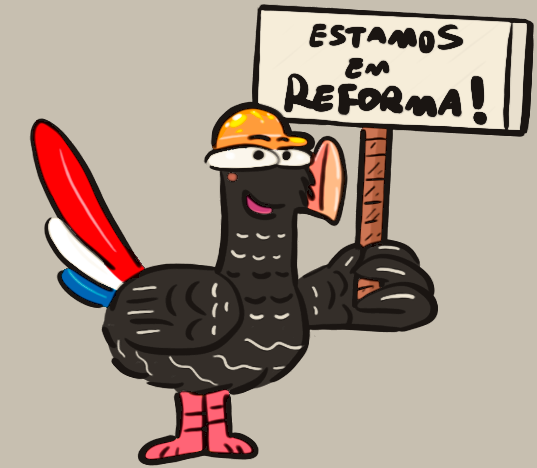
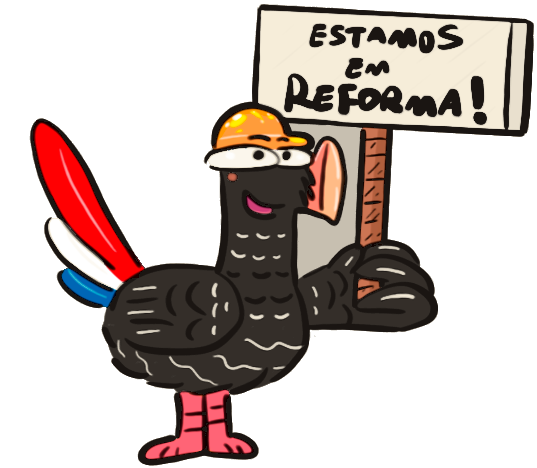
Aplica arte conceitual na equipe e atualiza EVOLUA! e curtas
Equipe: fotos e ovos extraídos dos slides conceituais. O texto de cada ovo
foi removido da imagem e passou a ser renderizado em HTML por cima, para
continuar traduzível — os quatro ovos têm rachaduras diferentes, então são
quatro arquivos. Avatares viram retângulo de cantos arredondados, com as
fotos reenquadradas para o maior retângulo inscrito na elipse original.

EVOLUA!: logo no lugar do título em texto, sinopse nova, gênero passa a
infinity running e o fundo do card vira o gradiente da apresentação,
replicado em CSS com três paradas.

Curtas: títulos reais (A Jornada Angatu, Depois do Dodô) e a seção passa a
citar documentários.

Placas da logo e cards da equipe usam o cinza do disco da marca, que dá 3.9:1
ao contorno branco do lockup contra 1.8:1 sobre a pedra.

Remove Discord, quatro fotos do estúdio e os textos pedidos. O placeholder
em-desenvolvimento.png fica com fundo transparente. Corrige traduções EN/ES
que tinham ficado para trás de edições feitas no português, e a menção ao
Discord na política de privacidade.

diff --git a/index.html b/index.html
@@ -73,8 +73,8 @@
     <div class="container hero-grid">
       <div class="hero-copy">
         <div class="eyebrow" style="--fg:#1A1512;--bg:#F4B12A;--sh:#E23A2E">★ <span data-en="From Alagoas to the world" data-es="Desde Alagoas para el mundo">De Alagoas para o mundo</span></div>
-        <h1 class="hero-title"><span data-en="We make games &amp; shorts" data-es="Hacemos juegos y cortos">Fazemos jogos e curtas</span> <span style="color:var(--gold)" data-en="with a Brazilian soul." data-es="con alma brasileña.">com alma brasileira.</span></h1>
-        <p class="hero-lede" data-en="Motion Mutum is an independent studio born in Alagoas, blending digital art, folklore and a lot of love for every single frame." data-es="Motion Mutum es un estudio independiente nacido en Alagoas, que mezcla arte digital, folclore y mucho cariño por cada cuadro.">A Motion Mutum é um estúdio independente que nasce em Alagoas, misturando arte digital, folclore e muito carinho por cada quadro.</p>
+        <h1 class="hero-title"><span data-en="One nest" data-es="Un nido">Um ninho</span> <span style="color:var(--gold)" data-en="and many ideas" data-es="y muchas ideas">e muitas Ideias</span></h1>
+        <p class="hero-lede" data-en="Motion Mutum is an indie games and animation studio born in Alagoas, blending digital art, culture and creativity." data-es="Motion Mutum es un estudio indie de juegos y animación nacido en Alagoas, que mezcla arte digital, cultura y creatividad.">O Motion Mutum é um estúdio indie de games e animação que nasceu em Alagoas, misturando arte digital, cultura e criatividade.</p>
         <div class="hero-ctas">
           <a class="btn btn--lg btn--fill" href="#anim" style="--sc:#E23A2E"><span class="btn-icon">▶</span><span data-en="Watch showreel" data-es="Ver showreel">Ver showreel</span></a>
           <a class="btn btn--lg btn--outline" href="#games" style="--sc:#2A3BC4"><span data-en="Meet EVOLUA!" data-es="Conoce EVOLUA!">Conheça EVOLUA!</span><span>→</span></a>
@@ -97,7 +97,6 @@
           <div class="eyebrow" style="--fg:#E23A2E">● <span data-en="IN DEVELOPMENT" data-es="EN DESARROLLO">EM DESENVOLVIMENTO</span></div>
           <h2 class="section-title" data-en="Our games" data-es="Nuestros juegos">Nossos jogos</h2>
         </div>
-        <p class="games-summary" data-en="Handcrafted digital-art worlds — one project at a time, made to last." data-es="Mundos en arte digital hechos a mano — un proyecto a la vez, hechos para durar.">Mundos em arte digital feitos à mão — um projeto de cada vez, feito para durar.</p>
       </div>
 
       <!-- feature card -->
@@ -107,16 +106,15 @@
         </div>
         <div class="feature-copy">
           <div class="tag-row">
-            <span class="tag" style="--bg:#F4B12A">ARTE DIGITAL</span>
-            <span class="tag" style="--bg:#E23A2E;--fg:#F6EDD9" data-en="RUNNING / PLATFORMER" data-es="RUNNING / PLATAFORMA">RUNNING / PLATAFORMA</span>
-            <span class="tag" style="--fg:#F6EDD9;--bd:#F6EDD9">PC / MOBILE</span>
+            <span class="tag" style="--bg:#F4B12A" data-en="DIGITAL ART" data-es="ARTE DIGITAL">ARTE DIGITAL</span>
+            <span class="tag" style="--bg:#E23A2E;--fg:#F6EDD9">INFINITY RUNNING</span>
+            <span class="tag" style="--bg:#2A3BC4;--fg:#F6EDD9">PC / MOBILE</span>
           </div>
-          <h3 class="evolua-title">EVOLUA!</h3>
-          <p class="evolua-lede" data-en="A running/platformer set in the Cretaceous. You play an ancestral bird — parent of all living birds — able to morph into other birds depending on the seed it eats, joined by a shape-shifting prehistoric mammal. Cross biomes, dodge beasts and obstacles, and find your way back to the nest." data-es="Un running/plataforma ambientado en el Cretácico. Controlas un ave ancestral — madre de todas las aves actuales — capaz de transformarse en otras aves según la semilla que come, junto a un pequeño mamífero prehistórico metamórfico. Atraviesa biomas, esquiva bestias y obstáculos, y vuelve al nido.">Um running/plataforma ambientado no Cretáceo. Você controla uma ave ancestral — mãe de todas as aves atuais — capaz de assumir a forma de outras aves conforme a semente que come, ao lado de um pequeno mamífero pré-histórico metamórfico. Atravesse biomas, escape de feras e obstáculos e volte ao ninho.</p>
-          <p class="evolua-sublede" data-en="A playful, educational take on evolution by natural selection — with creatures inspired by Brazilian species, prehistoric and modern." data-es="Una visión lúdica y educativa de la evolución por selección natural — con criaturas inspiradas en especies brasileñas, prehistóricas y actuales.">Uma visão lúdica e educativa da evolução por seleção natural — com criaturas inspiradas em espécies brasileiras, pré-históricas e atuais.</p>
+          <h3 class="evolua-title"><img src="assets/evolua-logo.png" width="1100" height="308" alt="EVOLUA!"></h3>
+          <p class="evolua-lede" data-en="An infinity runner set in the late Cretaceous, in which you control a bird ancestral to all birds alive today. It can take the shape of other birds depending on the seed it eats, crossing biomes and escaping dinosaurs, crocodiles and other beasts to return to its nest. The game is a playful, educational take on evolution by natural selection, with creatures inspired by Brazilian species, prehistoric and modern." data-es="Un infinity running ambientado al final del período Cretácico, en el que controlas un ave ancestral de todas las actuales. Es capaz de asumir la forma de otras aves según la semilla que come, a través de biomas, escapando de dinosaurios, cocodrilos y otras fieras, para volver a su nido. El juego es una visión lúdica y educativa de la evolución por selección natural, con criaturas inspiradas en especies brasileñas, prehistóricas y actuales.">Um infinity running ambientado no final do período Cretáceo. Em que você controla uma ave ancestral de todas as atuais. Ela é capaz de assumir a forma de outras aves conforme a semente que come, através de biomas, escapando de dinossauros, crocodilos e outras feras, para retornar ao seu ninho. O Jogo é uma visão lúdica e educativa da evolução por seleção natural com criaturas inspiradas em espécies brasileiras, pré-históricas e atuais.</p>
           <div class="evolua-ctas">
             <button class="btn btn--fill" id="wishlistBtn" data-on="0" style="--sc:#1A1512">★ <span data-wl data-en="Add to wishlist" data-es="Añadir a la lista de deseos">Adicionar à wishlist</span></button>
-            <a class="btn btn--outline" href="#anim" style="--sc:rgba(0,0,0,.35)"><span class="btn-icon">▶</span><span data-en="Watch trailer" data-es="Ver trailer">Ver trailer</span></a>
+            <a class="btn btn--blue" href="#anim" style="--sc:#1A1512"><span class="btn-icon">▶</span><span data-en="Watch trailer" data-es="Ver trailer">Ver trailer</span></a>
           </div>
         </div>
       </div>
@@ -147,7 +145,7 @@
   <section id="anim" class="section section-pad bg-cream-alt">
     <div class="container">
       <div style="text-align:center">
-        <div class="eyebrow" style="--fg:#2A3BC4">▶ <span data-en="ANIMATED SHORTS" data-es="CORTOS DE ANIMACIÓN">CURTAS DE ANIMAÇÃO</span></div>
+        <div class="eyebrow" style="--fg:#2A3BC4">▶ <span data-en="ANIMATED SHORTS &amp; DOCUMENTARIES" data-es="CORTOS DE ANIMACIÓN Y DOCUMENTALES">CURTAS DE ANIMAÇÃO E DOCUMENTÁRIOS</span></div>
         <h2 class="section-title" style="margin:18px auto 0;max-width:16em" data-en="Frame by frame, from Alagoas" data-es="Cuadro a cuadro, directo desde Alagoas">Quadro a quadro, direto de Alagoas</h2>
       </div>
 
@@ -159,7 +157,7 @@
       </div>
 
       <!-- shorts grid -->
-      <div class="shot-grid" data-carousel style="margin-top:26px">
+      <div class="shot-grid shot-grid--duo" data-carousel style="margin-top:26px">
         <div class="short-card">
           <div class="short-media">
             <div class="wip">
@@ -167,7 +165,7 @@
               <span class="wip-badge" data-en="IN DEVELOPMENT" data-es="EN DESARROLLO">EM DESENVOLVIMENTO</span>
             </div>
           </div>
-          <div class="short-body"><div class="short-title" data-en="The Curassow's Song" data-es="El Canto del Mutum">O Canto do Mutum</div><div class="short-status" style="--fg:#E23A2E" data-en="SHORT · COMING SOON" data-es="CORTO · PRÓXIMAMENTE">CURTA · EM BREVE</div></div>
+          <div class="short-body"><div class="short-title">A Jornada Angatu</div><div class="short-status" style="--fg:#E23A2E" data-en="ANIMATED SHORT · COMING SOON" data-es="CORTO ANIMADO · PRÓXIMAMENTE">CURTA ANIMADO · EM BREVE</div></div>
         </div>
         <div class="short-card">
           <div class="short-media">
@@ -176,16 +174,7 @@
               <span class="wip-badge" data-en="IN DEVELOPMENT" data-es="EN DESARROLLO">EM DESENVOLVIMENTO</span>
             </div>
           </div>
-          <div class="short-body"><div class="short-title" data-en="Backwater Tales" data-es="Cuentos del Sertão">Causos do Sertão</div><div class="short-status" style="--fg:#2A3BC4" data-en="SHORT · COMING SOON" data-es="CORTO · PRÓXIMAMENTE">CURTA · EM BREVE</div></div>
-        </div>
-        <div class="short-card">
-          <div class="short-media">
-            <div class="wip">
-              <img src="assets/em-desenvolvimento.png" alt="Mutum de capacete segurando uma placa: estamos em reforma">
-              <span class="wip-badge" data-en="IN DEVELOPMENT" data-es="EN DESARROLLO">EM DESENVOLVIMENTO</span>
-            </div>
-          </div>
-          <div class="short-body"><div class="short-title" data-en="Lantern Moon" data-es="Luna de Mamulengo">Lua de Mamulengo</div><div class="short-status short-status--outline" style="--fg:#F4B12A" data-en="SHORT · COMING SOON" data-es="CORTO · PRÓXIMAMENTE">CURTA · EM BREVE</div></div>
+          <div class="short-body"><div class="short-title">Depois do Dodô</div><div class="short-status" style="--fg:#2A3BC4" data-en="DOCUMENTARY SHORT · COMING SOON" data-es="CORTO DOCUMENTAL · PRÓXIMAMENTE">CURTA DOCUMENTAL · EM BREVE</div></div>
         </div>
       </div>
     </div>
@@ -197,22 +186,16 @@
       <div>
         <div class="eyebrow" style="--fg:#1A1512;--bg:#F4B12A;--bd:#F6EDD9;--sh:#E23A2E">★ <span data-en="THE STUDIO" data-es="EL ESTUDIO">O ESTÚDIO</span></div>
         <h2 class="section-title" style="color:var(--cream)" data-en="Why a curassow?" data-es="¿Por qué un mutum?">Por que um mutum?</h2>
-        <p class="studio-copy" style="margin-top:20px" data-en="The Alagoas Curassow is one of the rarest birds in the world — a symbol of resilience and of our home state. Its colors echo the Alagoas flag: red, white and blue." data-es="El mutum de Alagoas es una de las aves más raras del mundo — símbolo de resistencia y de nuestro estado natal. Sus colores recuerdan la bandera de Alagoas: rojo, blanco y azul.">O mutum-de-alagoas é uma das aves mais raras do mundo — símbolo de resistência e do nosso estado natal. Suas cores ecoam a bandeira de Alagoas: vermelho, branco e azul.</p>
-        <p class="studio-copy" data-en="We're a small, independent team making games and animation with regional roots and a whole lot of care. Slow, handmade, ours." data-es="Somos un equipo pequeño e independiente, haciendo juegos y animación con raíces regionales y mucho cuidado. Despacio, hecho a mano, nuestro.">Somos um time pequeno e independente, fazendo jogos e animação com raiz regional e muito cuidado. Devagar, feito à mão, nosso.</p>
-        <p class="studio-note" data-en="An initiative supported by the City of Coruripe and its Culture Secretariat — which hosts our space. In return we run talks, workshops and the Municipal Library Film Club." data-es="Una iniciativa con el apoyo del Ayuntamiento de Coruripe y su Secretaría de Cultura — que cede nuestro espacio. Como contrapartida, realizamos charlas, talleres y el Cineclub de la Biblioteca Municipal.">Iniciativa com apoio da Prefeitura de Coruripe e da Secretaria Municipal de Cultura — que cede nosso espaço. Como contrapartida, realizamos palestras, workshops e o Cineclube da Biblioteca Municipal.</p>
+        <p class="studio-copy" style="margin-top:20px" data-en="Our studio's name was inspired by the Alagoas Curassow, one of the rarest birds in the world and a symbol of our home state; we're an independent team focused on developing games and animation." data-es="El nombre de nuestro estudio se inspiró en el mutum de Alagoas, una de las aves más raras del mundo y símbolo de nuestro estado; somos un equipo independiente enfocado en el desarrollo de juegos y animaciones.">O nome do nosso estúdio foi inspirado pelo mutum-de-alagoas, uma das aves mais raras do mundo e símbolo do nosso estado, somos um time independente focado no desenvolvimento de jogos e animações.</p>
         <div class="studio-tags">
-          <div class="pill" style="--bd:#E23A2E" data-en="INDEPENDENT" data-es="INDEPENDIENTE">INDEPENDENTE</div>
-          <div class="pill" data-en="HANDMADE" data-es="HECHO A MANO">FEITO À MÃO</div>
-          <div class="pill" style="--bd:#2A3BC4" data-en="MADE IN ALAGOAS" data-es="DE ALAGOAS">DE ALAGOAS</div>
+          <div class="pill" style="--bd:#E23A2E" aria-hidden="true"></div>
+          <div class="pill" aria-hidden="true"></div>
+          <div class="pill" style="--bd:#2A3BC4" aria-hidden="true"></div>
         </div>
       </div>
       <div class="studio-photo carousel-track" data-carousel>
-        <img src="assets/studio-meeting-1.jpg" alt="Equipe da Motion Mutum reunida para uma palestra">
         <img src="assets/studio-meeting-2.jpg" alt="Equipe da Motion Mutum reunida trabalhando em notebooks">
-        <img src="assets/studio-meeting-3.jpg" alt="Equipe da Motion Mutum reunida trabalhando em notebooks">
-        <img src="assets/studio-meeting-4.jpg" alt="Equipe da Motion Mutum reunida trabalhando em notebooks">
         <img src="assets/studio-meeting-5.jpg" alt="Storyboard do curta projetado na sala de exibição da Motion Mutum">
-        <img src="assets/studio-meeting-6.jpg" alt="Storyboard do curta projetado na sala de exibição da Motion Mutum">
         <img src="assets/studio-meeting-7.jpg" alt="Equipe da Motion Mutum reunida em frente ao logo do estúdio projetado">
       </div>
     </div>
@@ -224,37 +207,48 @@
       <div style="text-align:center">
         <div class="eyebrow" style="--fg:#F4B12A;--bg:#1A1512;--sh:#E23A2E">★ <span data-en="THE FLOCK" data-es="LA BANDADA">O BANDO</span></div>
         <h2 class="section-title" style="margin:18px auto 0;max-width:15em" data-en="Four founders, one nest" data-es="Cuatro fundadores, un nido">Quatro fundadores, um ninho</h2>
-        <p class="team-lede" data-en="Art, science, code and story — the mix behind Motion Mutum." data-es="Arte, ciencia, código e historia — la mezcla detrás de Motion Mutum.">Arte, ciência, código e narrativa — a mistura por trás da Motion Mutum.</p>
       </div>
 
       <div class="team-grid" data-carousel>
         <!-- Cássio -->
         <div class="team-card">
-          <div class="team-avatar" style="--sh:#E23A2E"><img class="team-photo" src="assets/cassio-januario.png" alt="Cássio Januário"></div>
-          <div class="team-name">Cássio Januário</div>
-          <div class="team-role" style="--fg:#E23A2E" data-en="GAME ARTIST &amp; ANIMATION" data-es="GAME ARTIST &amp; ANIMACIÓN">GAME ARTIST &amp; ANIMAÇÃO</div>
-          <p class="team-bio" data-en="Game Artist and animator on EVOLUA! — art, illustration and animation for the game. Systems Analysis grad; painting, printmaking and digital art; co-created the stop-motion short &quot;Tupi Or Not Tupi&quot; (2016)." data-es="Game Artist y animador en EVOLUA! — arte, ilustración y animación del juego. Graduado en Análisis de Sistemas; pintura, grabado y arte digital; coautor del corto en stop motion &quot;Tupi Or Not Tupi&quot; (2016).">Game Artist e animador do EVOLUA! — arte, ilustração e animação do jogo. Bacharel em Análise de Sistemas; pintura, gravura e arte digital; coautor do curta em stop motion &quot;Tupi Or Not Tupi&quot; (2016).</p>
+          <div class="team-avatar" style="--sh:#E23A2E"><img class="team-photo" src="assets/cassio-januario.jpg" alt="Cássio Januário"></div>
+          <div class="team-egg" style="--ovo:url('assets/ovo-1.png')">
+            <div class="team-egg-copy">
+              <div class="team-name">Cássio Januário</div>
+              <div class="team-role" data-en="Game Artist &amp; Animator" data-es="Game Artist y Animador">Game Artist e Animador</div>
+            </div>
+          </div>
         </div>
         <!-- Erivelto -->
         <div class="team-card">
-          <div class="team-avatar" style="--sh:#2A3BC4"><img class="team-photo" src="assets/erivelto-souza.png" alt="Erivelto Souza"></div>
-          <div class="team-name">Erivelto Souza</div>
-          <div class="team-role" style="--fg:#2A3BC4" data-en="LEAD ARTIST" data-es="LEAD ARTIST">LEAD ARTIST</div>
-          <p class="team-bio" data-en="Lead Artist, writer, game designer, animator and concept artist on EVOLUA!. Biologist (herpetology, ornithology, paleontology) and poet; also sculpts for museums (UFAL History Museum, Atlantic Forest Museum)." data-es="Lead Artist, guionista, game designer, animador y artista conceptual en EVOLUA!. Biólogo (herpetología, ornitología, paleontología) y poeta; también esculpe para museos (Museo de Historia UFAL, Museo de la Mata Atlántica).">Lead Artist, roteirista, game designer, animador e artista conceitual do EVOLUA!. Biólogo (herpetologia, ornitologia, paleontologia) e poeta; também esculpe para museus (Museu de História UFAL, Museu da Mata Atlântica).</p>
+          <div class="team-avatar" style="--sh:#2A3BC4"><img class="team-photo" src="assets/erivelto-souza.jpg" alt="Erivelto Souza"></div>
+          <div class="team-egg" style="--ovo:url('assets/ovo-2.png')">
+            <div class="team-egg-copy">
+              <div class="team-name">Erivelto Souza</div>
+              <div class="team-role" data-en="Concept Artist &amp; Animator" data-es="Concept Artist y Animador">Concept Artist e Animador</div>
+            </div>
+          </div>
         </div>
         <!-- Isaac -->
         <div class="team-card">
-          <div class="team-avatar" style="--sh:#F4B12A"><img class="team-photo" src="assets/isaac-santos.jpg" alt="Isaac C. Santos"></div>
-          <div class="team-name">Isaac C. Santos</div>
-          <div class="team-role" style="--fg:#E23A2E" data-en="PROGRAMMING" data-es="PROGRAMACIÓN">PROGRAMAÇÃO</div>
-          <p class="team-bio" data-en="Programmer on EVOLUA!. Systems Analysis &amp; Development grad; software engineering, 3D modeling and web design." data-es="Programador en EVOLUA!. Graduado en Análisis y Desarrollo de Sistemas; ingeniería de software, modelado 3D y diseño web.">Programador do EVOLUA!. Bacharel em Análise e Desenvolvimento de Sistemas; engenharia de software, modelagem 3D e web design.</p>
+          <div class="team-avatar" style="--sh:#F4B12A"><img class="team-photo" src="assets/isaac-santos.jpg" alt="Isaac Santos"></div>
+          <div class="team-egg" style="--ovo:url('assets/ovo-3.png')">
+            <div class="team-egg-copy">
+              <div class="team-name">Isaac Santos</div>
+              <div class="team-role" data-en="Programmer &amp; Animator" data-es="Programador y Animador">Programador e Animador</div>
+            </div>
+          </div>
         </div>
         <!-- Thiago -->
         <div class="team-card">
-          <div class="team-avatar" style="--sh:#2A3BC4"><img class="team-photo" src="assets/thiago-rodrigues.jpg" alt="Thiago O. Rodrigues"></div>
-          <div class="team-name">Thiago O. Rodrigues</div>
-          <div class="team-role" style="--fg:#2A3BC4" data-en="GAME DESIGN &amp; PRODUCTION" data-es="GAME DESIGN &amp; PRODUCCIÓN">GAME DESIGN &amp; PRODUÇÃO</div>
-          <p class="team-bio" data-en="Game Designer, Producer and QA Tester on EVOLUA! — also handles marketing and community management. History (teaching) student; co-created the short &quot;Tupi Or Not Tupi&quot; (2016)." data-es="Game Designer, Producer y QA Tester en EVOLUA! — también se encarga de marketing y community management. Estudiante de Profesorado en Historia; coautor del corto &quot;Tupi Or Not Tupi&quot; (2016).">Game Designer, Producer e QA Tester do EVOLUA! — também cuida de marketing e community management. Estudante de Licenciatura em História; coautor do curta &quot;Tupi Or Not Tupi&quot; (2016).</p>
+          <div class="team-avatar" style="--sh:#2A3BC4"><img class="team-photo" src="assets/thiago-rodrigues.jpg" alt="Thiago Rodrigues"></div>
+          <div class="team-egg" style="--ovo:url('assets/ovo-4.png')">
+            <div class="team-egg-copy">
+              <div class="team-name">Thiago Rodrigues</div>
+              <div class="team-role" data-en="Producer &amp; Animator" data-es="Producer y Animador">Producer e Animador</div>
+            </div>
+          </div>
         </div>
       </div>
     </div>
@@ -264,8 +258,7 @@
   <section id="contact" class="section section-pad bg-cream">
     <div class="contact-intro">
       <div class="eyebrow" style="--fg:#E23A2E">✉ <span data-en="LET'S TALK" data-es="HABLEMOS">VAMOS CONVERSAR</span></div>
-      <h2 class="section-title" data-en="Publisher, festival or fan? Say hi." data-es="¿Publisher, festival o fan? Salúdanos.">Publisher, festival ou fã? Diga olá.</h2>
-      <p class="contact-lede" data-en="Partnerships, press or joining the flock — find us wherever you scroll." data-es="Alianzas, prensa o ganas de unirte a la bandada — encuéntranos donde sea que estés.">Parcerias, imprensa ou vontade de fazer parte do bando — nos encontre por aí.</p>
+      <h2 class="section-title" data-en="Fan, publisher or festival? Say hi." data-es="¿Fan, publisher o festival? Salúdanos.">Fã, Publisher ou festival? Diga olá.</h2>
     </div>
     <div class="social-spotlight">
       <a class="social-card" href="https://www.instagram.com/motionmutum/" target="_blank" rel="noopener" style="--fg:#F6EDD9;background:linear-gradient(45deg,#feda75,#fa7e1e,#d62976,#962fbf,#4f5bd5)">
@@ -279,10 +272,6 @@
       <a class="social-card" href="https://motionmutum.itch.io/" target="_blank" rel="noopener" style="--bg:#2A3BC4;--fg:#F6EDD9">
         <span class="social-card-icon">●</span>
         <span class="social-card-label">ITCH.IO</span>
-      </a>
-      <a class="social-card social-card--outline" href="#" style="--bd:#2A3BC4;--fg:#2A3BC4">
-        <span class="social-card-icon">■</span>
-        <span class="social-card-label">DISCORD</span>
       </a>
       <a class="social-card" href="mailto:motionmutum@gmail.com" style="--bg:#F4B12A;--fg:#1A1512">
         <span class="social-card-icon">✉</span>
@@ -302,7 +291,6 @@
         <a class="social-link" href="https://www.instagram.com/motionmutum/" target="_blank" rel="noopener" style="--hc:#D62976">INSTAGRAM</a>
         <a class="social-link" href="https://www.youtube.com/@motionmutum" target="_blank" rel="noopener" style="--hc:#E23A2E">YOUTUBE</a>
         <a class="social-link" href="https://motionmutum.itch.io/" target="_blank" rel="noopener" style="--hc:#2A3BC4">ITCH.IO</a>
-        <a class="social-link" href="#" style="--hc:#2A3BC4">DISCORD</a>
         <a class="social-link" href="mailto:motionmutum@gmail.com" style="--hc:#F4B12A">EMAIL</a>
       </div>
     </div>

diff --git a/styles.css b/styles.css
@@ -7,6 +7,10 @@
   --blue:#2A3BC4;
   --gold:#F4B12A;
   --stone:#C7BFB0;
+  --slate:#73838F;   /* cinza do disco atras da logo (5.png) */
+  /* fundo do card do EVOLUA!, replicado do PNG da apresentação (3 paradas bastam:
+     erro máx. de 1/255 num canal contra a imagem original) */
+  --grad-evolua:linear-gradient(180deg,#C2FFB4 0%,#268D7C 50%,#123522 100%);
   --font-pixel:'Press Start 2P',monospace;
   --font-title:'Fredoka',sans-serif;
   --font-body:'Nunito Sans',sans-serif;
@@ -55,6 +59,7 @@ input:focus,textarea:focus{outline:none;box-shadow:4px 4px 0 var(--red)}
 .btn--lg{font-size:11px;padding:16px 22px;gap:10px}
 .btn--fill{background:var(--gold);color:var(--ink);border-color:var(--ink)}
 .btn--outline{background:transparent;color:var(--cream);border-color:var(--cream)}
+.btn--blue{background:var(--blue);color:var(--cream);border-color:var(--ink)}
 
 /* ===== language switch ===== */
 .lang-switch{display:inline-flex;border:3px solid var(--ink);box-shadow:3px 3px 0 var(--ink)}
@@ -76,7 +81,8 @@ input:focus,textarea:focus{outline:none;box-shadow:4px 4px 0 var(--red)}
 
 /* ===== small tag / pill chips ===== */
 .tag{font-family:var(--font-pixel);font-size:9px;border:2px solid var(--bd,var(--ink));padding:6px 9px;color:var(--fg,var(--ink));background:var(--bg,transparent)}
-.pill{font-family:var(--font-pixel);font-size:9px;color:var(--cream);background:transparent;border:2px solid var(--bd,var(--cream));padding:9px 12px}
+/* quadrados decorativos nas cores da bandeira de Alagoas (vermelho/branco/azul) */
+.pill{width:34px;height:34px;flex:0 0 auto;background:transparent;border:2px solid var(--bd,var(--cream))}
 
 /* ===== section heading system ===== */
 .section-pad{padding:82px 24px}
@@ -128,21 +134,23 @@ input:focus,textarea:focus{outline:none;box-shadow:4px 4px 0 var(--red)}
 .hero-ctas{display:flex;flex-wrap:wrap;gap:16px;margin-top:32px}
 
 .hero-figure{display:flex;justify-content:center;align-items:center;animation:mmfloat 6s ease-in-out infinite}
-.logo-frame{position:relative;min-width:0;max-width:100%;background:var(--stone);border:3px solid var(--ink);box-shadow:12px 12px 0 var(--gold);padding:26px}
+.logo-frame{position:relative;min-width:0;max-width:100%;background:var(--slate);border:3px solid var(--ink);box-shadow:12px 12px 0 var(--gold);padding:26px}
 .logo-img{width:100%;max-width:420px;height:auto;display:block}
 .est-badge{position:absolute;bottom:-16px;left:-16px;font-family:var(--font-pixel);font-size:9px;color:var(--ink);background:var(--cream);border:3px solid var(--ink);padding:7px 10px}
 
 /* ===== games / EVOLUA! ===== */
-.feature-grid{display:grid;grid-template-columns:1.08fr .92fr;background:var(--blue);border:3px solid var(--ink);box-shadow:12px 12px 0 var(--ink);overflow:hidden}
+.feature-grid{display:grid;grid-template-columns:1.08fr .92fr;background:var(--grad-evolua);border:3px solid var(--ink);box-shadow:12px 12px 0 var(--ink);overflow:hidden}
 .feature-media{position:relative;min-height:430px;border-right:3px solid var(--ink)}
 .feature-copy{padding:40px 38px;color:var(--cream);display:flex;flex-direction:column;justify-content:center}
 .tag-row{display:flex;gap:8px;flex-wrap:wrap;margin-bottom:20px}
-.evolua-title{font-family:var(--font-title);font-weight:700;line-height:.95;margin:0;color:var(--gold);text-shadow:4px 4px 0 rgba(0,0,0,.35);font-size:52px}
-.evolua-lede{font-size:16.5px;line-height:1.6;margin:18px 0 0;color:rgba(246,237,217,.92)}
-.evolua-sublede{font-size:14px;line-height:1.55;margin:12px 0 0;color:rgba(246,237,217,.72)}
+.evolua-title{margin:0 auto;width:min(100%,330px)}
+.evolua-title img{display:block;width:100%;height:auto}
+.evolua-lede{font-size:16.5px;line-height:1.6;font-weight:700;margin:18px 0 0;color:var(--ink)}
+.evolua-sublede{font-size:14px;line-height:1.55;font-weight:700;margin:12px 0 0;color:rgba(26,21,18,.78)}
 .evolua-ctas{display:flex;flex-wrap:wrap;gap:14px;margin-top:28px}
 
 .shot-grid{display:grid;grid-template-columns:repeat(3,1fr);gap:22px}
+.shot-grid--duo{grid-template-columns:repeat(2,1fr)}  /* so dois curtas anunciados */
 .shot-box{position:relative;height:200px;border:3px solid var(--ink);box-shadow:6px 6px 0 var(--ink)}
 
 /* ===== animation ===== */
@@ -156,22 +164,30 @@ input:focus,textarea:focus{outline:none;box-shadow:4px 4px 0 var(--red)}
 .short-body{padding:16px 18px}
 .short-title{font-family:var(--font-title);font-weight:600;font-size:20px}
 .short-status{font-family:var(--font-pixel);font-size:9px;margin-top:8px;color:var(--fg,var(--ink))}
+.short-body > .short-status:first-child{margin-top:0}  /* card sem titulo ainda nao anunciado */
 .short-status--outline{-webkit-text-stroke:.4px var(--ink)}
 
 /* ===== studio ===== */
 .studio-grid{display:grid;grid-template-columns:1fr 1fr;gap:50px;align-items:center}
 .studio-copy{font-size:17px;line-height:1.7;margin:16px 0 0;color:rgba(246,237,217,.85)}
 .studio-note{font-size:15px;line-height:1.65;margin:16px 0 0;color:rgba(246,237,217,.7)}
-.studio-tags{display:flex;flex-wrap:wrap;gap:12px;margin-top:28px}
+.studio-tags{display:flex;flex-wrap:wrap;justify-content:center;gap:12px;margin-top:28px}
 .studio-photo{position:relative;border:3px solid var(--cream);box-shadow:12px 12px 0 rgba(0,0,0,.45);aspect-ratio:4/3}
 
 /* ===== team ===== */
 .team-grid{display:grid;grid-template-columns:repeat(4,1fr);gap:22px;margin-top:38px}
-.team-card{background:#fff;border:3px solid var(--ink);box-shadow:8px 8px 0 var(--ink);padding:22px 20px;display:flex;flex-direction:column}
-.team-avatar{position:relative;width:104px;height:104px;margin:0 auto;border:3px solid var(--ink);border-radius:50%;box-shadow:4px 4px 0 var(--sh,var(--red));overflow:hidden}
-.team-name{font-family:var(--font-title);font-weight:600;font-size:21px;text-align:center;margin-top:16px}
-.team-role{font-family:var(--font-pixel);font-size:8px;line-height:1.5;text-align:center;margin-top:9px;color:var(--fg,var(--red))}
-.team-bio{font-size:13.5px;line-height:1.55;margin:14px 0 0;color:rgba(26,21,18,.72)}
+.team-card{background:var(--slate);border:3px solid var(--ink);box-shadow:8px 8px 0 var(--ink);padding:22px 20px;display:flex;flex-direction:column}
+/* retangulo alongado de cantos bem arredondados. As fotos foram reenquadradas
+   para o maior retangulo desse tipo inscrito na elipse original (97%), senao os
+   cantos brancos do recorte da concept apareceriam. Raio = 48% da largura,
+   entao ele acompanha a largura se ela mudar. */
+.team-avatar{position:relative;width:132px;aspect-ratio:1058/1314;margin:0 auto;border:3px solid var(--ink);border-radius:63px;box-shadow:4px 4px 0 var(--sh,var(--red));overflow:hidden}
+/* o ovo entra como background (--ovo por card, cada um com a sua rachadura) e o
+   texto vai por cima em HTML — por isso os PNGs sao exportados sem texto */
+.team-egg{position:relative;width:100%;max-width:165px;margin:14px auto 0;aspect-ratio:560/704;background:var(--ovo) center/contain no-repeat}
+.team-egg-copy{position:absolute;left:8%;right:8%;top:50%;transform:translateY(-50%);text-align:center}
+.team-name{font-family:var(--font-title);font-weight:600;font-size:16px;line-height:1.2;color:var(--ink)}
+.team-role{font-family:var(--font-title);font-weight:500;font-size:13.5px;line-height:1.3;margin-top:8px;color:var(--ink)}
 
 /* ===== contact ===== */
 .contact-intro{max-width:760px;margin:0 auto;text-align:center}
@@ -186,7 +202,7 @@ input:focus,textarea:focus{outline:none;box-shadow:4px 4px 0 var(--red)}
 .site-footer{background:var(--ink);color:var(--cream);padding:52px 24px 40px}
 .footer-top{display:flex;flex-wrap:wrap;gap:30px;justify-content:space-between;align-items:flex-start}
 .footer-brand{max-width:320px}
-.footer-logo-chip{display:inline-block;background:var(--stone);border:3px solid var(--ink);box-shadow:5px 5px 0 var(--gold);padding:12px 16px}
+.footer-logo-chip{display:inline-block;background:var(--slate);border:3px solid var(--ink);box-shadow:5px 5px 0 var(--gold);padding:12px 16px}
 .footer-logo-img{height:112px;width:auto;display:block}
 .footer-tagline{font-size:14px;line-height:1.6;margin:14px 0 0;color:rgba(246,237,217,.7)}
 .social-row{display:flex;gap:12px;flex-wrap:wrap}
@@ -240,7 +256,7 @@ input:focus,textarea:focus{outline:none;box-shadow:4px 4px 0 var(--red)}
   .feature-grid{grid-template-columns:1fr}
   .feature-media{min-height:260px}
   .feature-copy{padding:28px 24px}
-  .evolua-title{font-size:38px}
+  .evolua-title{width:min(100%,275px)}
   .section-title{font-size:34px}
   .section-pad{padding:56px 20px}
   .studio-grid{grid-template-columns:1fr;gap:32px}

diff --git a/privacidade.html b/privacidade.html
@@ -87,7 +87,7 @@
     </div>
 
     <h2 data-en="Other services" data-es="Otros servicios">Outros serviços</h2>
-    <p data-en="Our fonts are served from this site itself, not from Google's servers, so simply opening the page contacts no one but our host. The site is hosted on GitHub Pages, which sees your IP address as a technical necessity to deliver it. Links to Instagram, YouTube, itch.io and Discord take you to those companies, each with its own policy. Nothing is embedded from them on this page." data-es="Nuestras tipografías se sirven desde este mismo sitio, no desde los servidores de Google, así que abrir la página no contacta a nadie más que a nuestro alojamiento. El sitio está alojado en GitHub Pages, que ve tu dirección IP como necesidad técnica para entregarlo. Los enlaces a Instagram, YouTube, itch.io y Discord te llevan a esas empresas, cada una con su propia política. Nada de ellas está incrustado en esta página.">Nossas fontes são servidas a partir deste próprio site, e não dos servidores do Google, então abrir a página não aciona ninguém além da nossa hospedagem. O site está hospedado no GitHub Pages, que enxerga seu endereço de IP por necessidade técnica de entregá-lo. Os links para Instagram, YouTube, itch.io e Discord levam para essas empresas, cada uma com política própria. Nada delas fica embutido nesta página.</p>
+    <p data-en="Our fonts are served from this site itself, not from Google's servers, so simply opening the page contacts no one but our host. The site is hosted on GitHub Pages, which sees your IP address as a technical necessity to deliver it. Links to Instagram, YouTube and itch.io take you to those companies, each with its own policy. Nothing is embedded from them on this page." data-es="Nuestras tipografías se sirven desde este mismo sitio, no desde los servidores de Google, así que abrir la página no contacta a nadie más que a nuestro alojamiento. El sitio está alojado en GitHub Pages, que ve tu dirección IP como necesidad técnica para entregarlo. Los enlaces a Instagram, YouTube e itch.io te llevan a esas empresas, cada una con su propia política. Nada de ellas está incrustado en esta página.">Nossas fontes são servidas a partir deste próprio site, e não dos servidores do Google, então abrir a página não aciona ninguém além da nossa hospedagem. O site está hospedado no GitHub Pages, que enxerga seu endereço de IP por necessidade técnica de entregá-lo. Os links para Instagram, YouTube e itch.io levam para essas empresas, cada uma com política própria. Nada delas fica embutido nesta página.</p>
 
     <p style="margin-top:38px"><a href="index.html#top" data-en="← Back to the site" data-es="← Volver al sitio">← Voltar para o site</a></p>
   </main>
